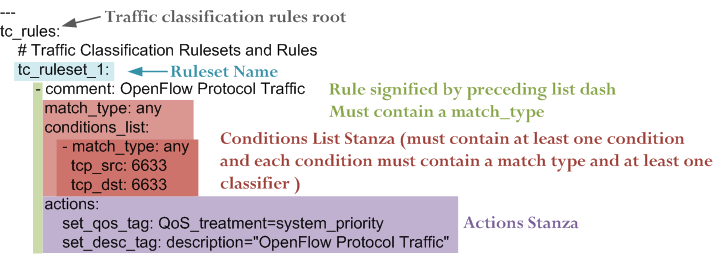
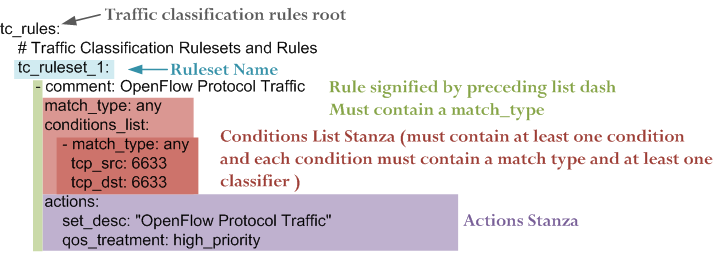
as per previous - updates to action attributes and values

Changed region(s): [[0.0, 0.0276, 1.0, 1.0], [0.6435, 0.7992, 0.8273, 0.9094], [0.0, 0.0276, 0.0306, 0.0551]]

diff --git a/nmeta/tc_policy.py b/nmeta/tc_policy.py
@@ -59,15 +59,13 @@ TC_CONFIG_CONDITIONS = {'eth_src': 'MACAddress',
                                'identity_lldp_systemname_re': 'String',
                                'identity_service_dns': 'String',
                                'identity_service_dns_re': 'String',
-                               'payload_type': 'String',
+                               'custom': 'String',
                                'match_type': 'MatchType',
                                'conditions_list': 'PolicyConditions'}
-TC_CONFIG_ACTIONS = ('set_qos_tag',
-                     'set_desc_tag',
-                     'pass_return_tags')
+TC_CONFIG_ACTIONS = ('qos_treatment',
+                     'set_desc')
 TC_CONFIG_MATCH_TYPES = ('any',
-                         'all',
-                         'custom')
+                         'all')
 #*** Keys that must exist under 'identity' in the policy:
 IDENTITY_KEYS = ('arp',
                  'lldp',
@@ -109,6 +107,8 @@ class TrafficClassificationPolicy(BaseClass):
                               self.fullpathname, exception)
             sys.exit("Exiting nmeta. Please create traffic classification "
                              "policy file")
+        #*** List to be populated with names of any custom classifiers:
+        self.custom_classifiers = []
         #*** Instantiate Classes:
         self.static = tc_static.StaticInspect(config)
         self.identity = tc_identity.IdentityInspect(config)
@@ -280,6 +280,11 @@ class TrafficClassificationPolicy(BaseClass):
                 " is invalid: %s", policy_condition)
                 sys.exit("Exiting nmeta. Please fix error in "
                          "main_policy.yaml file")
+            #*** Accumulate names of any custom classifiers for later loading:
+            if policy_condition == 'custom':
+                custom_name = policy_conditions[policy_condition]
+                if custom_name not in self.custom_classifiers:
+                    self.custom_classifiers.append(custom_name)
             #*** Check policy condition value is valid:
             if not policy_condition[0:10] == 'conditions':
                 pc_value_type = TC_CONFIG_CONDITIONS[policy_condition]
@@ -390,7 +395,7 @@ class TrafficClassificationPolicy(BaseClass):
                 flow.classification.classified = True
                 flow.classification.classification_type = ""
                 # TBD:
-                flow.classification.classification_tag = tc_rule['actions']['set_desc_tag']
+                flow.classification.classification_tag = tc_rule['actions']['set_desc']
                 flow.classification.classification_time = time.time()
                 # TBD:
                 flow.classification.actions = tc_rule['actions']

diff --git a/nmeta/tc_custom.py b/nmeta/tc_custom.py
@@ -40,10 +40,10 @@ class CustomInspect(BaseClass):
         self.configure_logging("tc_custom_logging_level_s",
                                        "tc_custom_logging_level_c")
 
-    def check_custom(self, match, pkt, ident):
+    def check_custom(self, condition, pkt, ident):
         """
-        Passed match, flows packet and identites objects.
-        Update the match object as appropriate.
+        Passed condition, flows packet and identities objects.
+        Update the condition match as appropriate.
         """
         if policy_attr == "statistical_qos_bandwidth_1":
             #*** call the function for this particular statistical classifier
@@ -59,7 +59,7 @@ class CustomInspect(BaseClass):
     def instantiate_classifiers(self, _classifiers):
         """
         Dynamically import and instantiate classes for any
-        dynamic classifiers specified in the controller
+        custom classifiers specified in the controller
         nmeta2 main_policy.yaml
         .
         Passed a list of tuples of classifier type / classifer name

diff --git a/docs/source/configguide.rst b/docs/source/configguide.rst
@@ -238,7 +238,7 @@ Actions are specific to a rule, and define what nmeta should do when the rule is
 
 Supported attributes are:
 
-:set_qos: Set QoS treatment for flow.
+:qos_treatment: Specify QoS treatment for flow.
 
   Example:
 
@@ -248,11 +248,20 @@ Supported attributes are:
 
   Values can be:
 
-    default_priority
-    constrained_bw
-    high_priority
-    low_priority
-    classifier_return
+  - default_priority
+  - constrained_bw
+  - high_priority
+  - low_priority
+  - classifier_return
+
+:set_desc: Set description for the flow. This is a convenience for humans.
+
+  Example:
+
+  .. code-block:: text
+
+    set_desc: "This is a flow type description"
+
 
 QoS Treatment
 -------------
